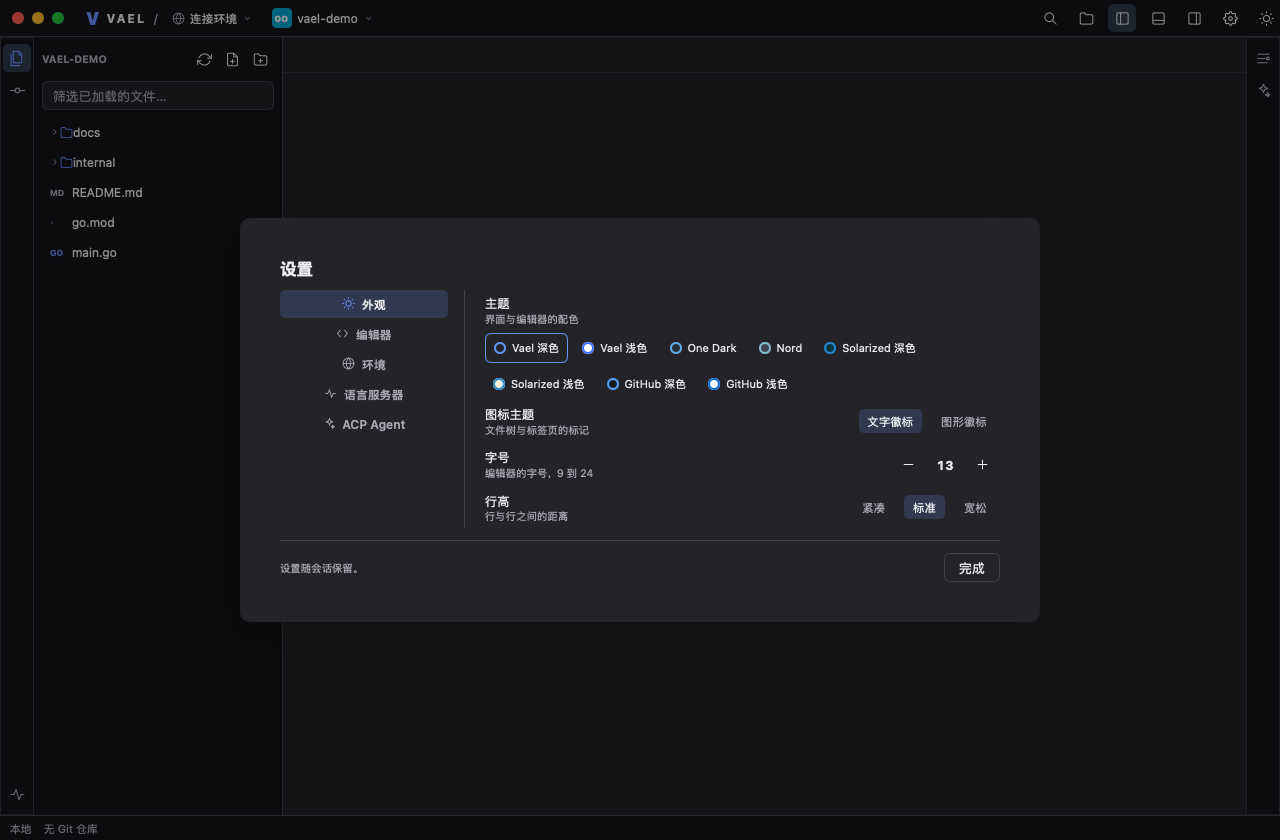
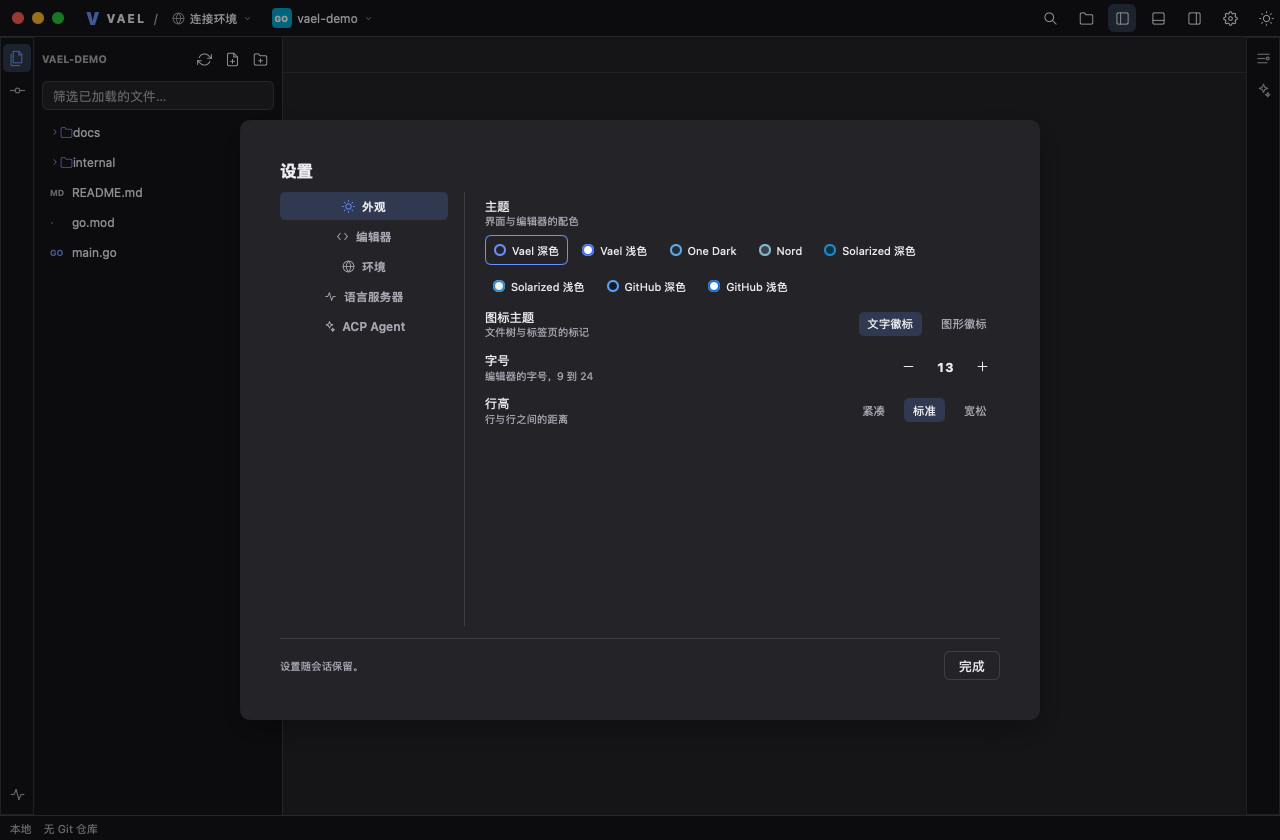
设置窗口固定高度，内容过长时滚动
- 设置窗口改成 760×560 的固定大小，标题、两栏与底部一行都不再随分区
  内容伸缩；内容区 FillHeight + Scroll，超过时自己滚动，短内容留白；
- 两栏用顶端对齐，左栏与右栏都 FillHeight，分隔线用 Divider 自动通高；
- 测试：五个分区的「完成」按钮位置一致（固定高度），十六个 Agent 的列表
  滚动后首项上移、末项进入窗口。

diff --git a/settings_test.go b/settings_test.go
@@ -1,0 +1,72 @@
+package main
+
+import (
+	"strings"
+	"testing"
+
+	"github.com/egoist/mygo/ui"
+	"vael/internal/workspace"
+)
+
+func TestTheSettingsKeepOneHeight(t *testing.T) {
+	a := newApp()
+	defer a.shutdown()
+	a.root = t.TempDir()
+	a.loadLSPSettings()
+	a.settingsOpen = true
+	tt := ui.NewTester(a.view, 1280, 840)
+	tt.Frame()
+	done, ok := tt.Find("完成")
+	if !ok {
+		t.Fatal("the settings are not drawn")
+	}
+	for _, section := range []string{settingsEditor, settingsEnv, settingsLSP, settingsAgent} {
+		a.settingsSection = section
+		tt.Frame()
+		other, ok := tt.Find("完成")
+		if !ok {
+			t.Fatalf("%q is not drawn", section)
+		}
+		if other.Y != done.Y {
+			t.Fatalf("%q moved the window: %v, not %v", section, other.Y, done.Y)
+		}
+	}
+}
+
+func TestTheSettingsScrollWhatIsTooLong(t *testing.T) {
+	a := newApp()
+	defer a.shutdown()
+	a.root = t.TempDir()
+	a.lspPath = ""
+	a.loadLSPSettings()
+	// Enough agents that the list of them is longer than the window.
+	for i := 0; i < 16; i++ {
+		name := "Agent " + strings.Repeat("长", 3) + itoa(i)
+		if err := a.agents.Add(workspace.Agent{Name: name, Command: "acp --stdio"}); err != nil {
+			t.Fatal(err)
+		}
+	}
+	a.agentRegistryOpen = false
+	a.settingsOpen = true
+	a.settingsSection = settingsAgent
+	tt := ui.NewTester(a.view, 1280, 840)
+	tt.Frame()
+	first, ok := tt.Find("Agent 长长长0")
+	if !ok {
+		t.Fatalf("the agents are not drawn: %v", tt.Texts())
+	}
+	// Scrolling the section brings in the agents the window cannot hold
+	// at once.
+	for range 4 {
+		tt.Scroll(900, 400, 0, 120)
+		tt.Frame()
+	}
+	firstAgain, ok := tt.Find("Agent 长长长0")
+	if !ok || firstAgain.Y >= first.Y {
+		t.Fatalf("the section did not scroll: %+v, not %+v", firstAgain, first)
+	}
+	last, ok := tt.Find("Agent 长长长15")
+	if !ok || last.Y > 700 {
+		t.Fatalf("the last agent is not in the window: %v %+v", ok, last)
+	}
+}

diff --git a/settings.go b/settings.go
@@ -27,12 +27,15 @@ func (a *app) settingsView(c *ui.Context, p palette) {
 	}
 	open := true
 	ui.Modal(c, &open, func() {
-		ui.Column(c).Width(760).Padding(20).Gap(12).Children(func() {
+		// The window keeps one height, whatever a section holds: the
+		// room the content does not need is empty, and what it needs
+		// past the room scrolls.
+		ui.Column(c).Width(760).Height(560).Padding(20).Gap(12).Children(func() {
 			ui.Text(c, "设置").FontSize(17).FontWeight(650)
 			ui.Row(c).FillWidth().Grow(1).MinHeight(0).Gap(16).AlignItems(ui.Start).Children(func() {
 				// The sections down the left, as an IDE's preferences, and
 				// the one chosen beside them.
-				ui.Column(c).Width(168).Shrink(0).Gap(2).Children(func() {
+				ui.Column(c).Width(168).Shrink(0).FillHeight().Gap(2).Children(func() {
 					a.settingsTab(c, p, "外观", settingsLook, sunIcon)
 					a.settingsTab(c, p, "编辑器", settingsEditor, codeIcon)
 					a.settingsTab(c, p, "环境", settingsEnv, globeIcon)
@@ -40,8 +43,8 @@ func (a *app) settingsView(c *ui.Context, p palette) {
 					a.settingsTab(c, p, "ACP Agent", settingsAgent, agentIcon)
 				})
 				ui.Divider(c)
-				ui.Column(c).Grow(1).MinWidth(0).Children(func() {
-					ui.Scroll(c).FillWidth().MaxHeight(520).Children(func() {
+				ui.Column(c).Grow(1).MinWidth(0).FillHeight().Children(func() {
+					ui.Scroll(c).FillWidth().FillHeight().Children(func() {
 						ui.Column(c).FillWidth().Gap(2).Children(func() {
 							switch a.settingsSection {
 							case settingsEditor:

diff --git a/README.md b/README.md
@@ -39,7 +39,7 @@ go tool mygo build   # 打包
 - **Agent**：通过 **ACP（Agent Client Protocol）** 接入，可从 ACP Registry 或手动命令添加；流式回答与思考、工具调用状态、**工具审批**（含「总是允许」）、Agent 的计划显示为任务清单、`input_required` 提示追问。
 - **窗口**：自绘标题栏（macOS 交通灯／Windows 与 Linux 窗口按钮）；标题栏依次是**环境**、**项目**、**分支**三个切换器；四区布局——左侧「文件」「Commit」，右侧「大纲」「Agent」，底部「终端」「Git 日志」「问题」（只在两侧面板之间）；面包屑、状态栏、专注模式、会话恢复。
 - **连接**：SSH（自动探测平台并上传核心）、WSL、Docker；命名保存配置、最近 20 个项目、断线自动重连（保留缓冲区与终端）。
-- **设置**：左侧纵向分区、右侧内容的窗口（参考 IDEA 的 Preferences）——外观（**界面主题** 8 套、**图标主题** 2 套、字号、行高）、编辑器（换行、Tab 宽度、缩进、空白、参考线、自动闭合、行号）、环境（远程环境管理）、语言服务器（逐个启用、改启动命令）、ACP Agent。
+- **设置**：固定高度的窗口，左侧纵向分区、右侧内容（参考 IDEA 的 Preferences），内容超过窗口高度时自己滚动——外观（**界面主题** 8 套、**图标主题** 2 套、字号、行高）、编辑器（换行、Tab 宽度、缩进、空白、参考线、自动闭合、行号）、环境（远程环境管理）、语言服务器（逐个启用、改启动命令）、ACP Agent。
 - **主题**：界面主题 Vael 深色／浅色、One Dark、Nord、Solarized 深浅、GitHub 深浅，各自带配色小样；图标主题有「文字徽标」（GO／TS／PY…）与「图形徽标」（代码、数据、文档、脚本、样式、标记、图片的图标），作用于文件树与标签页；`⌘/Ctrl+Shift+L` 在同一套主题的深浅之间切换；主题与图标主题随会话保留。
 
 ## 架构
